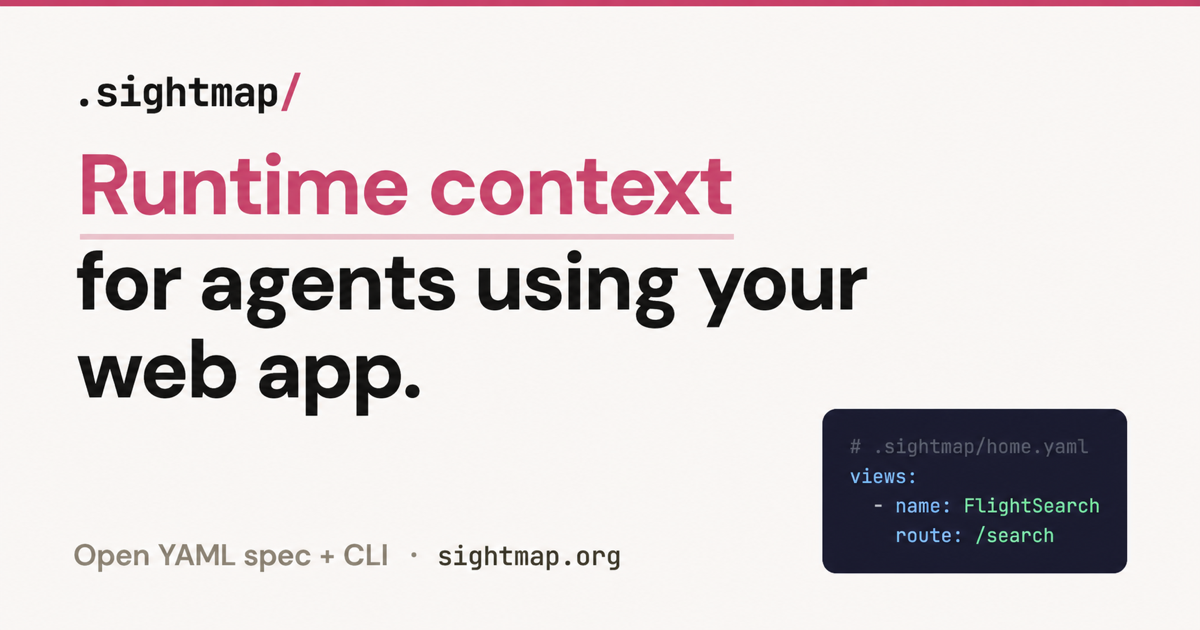
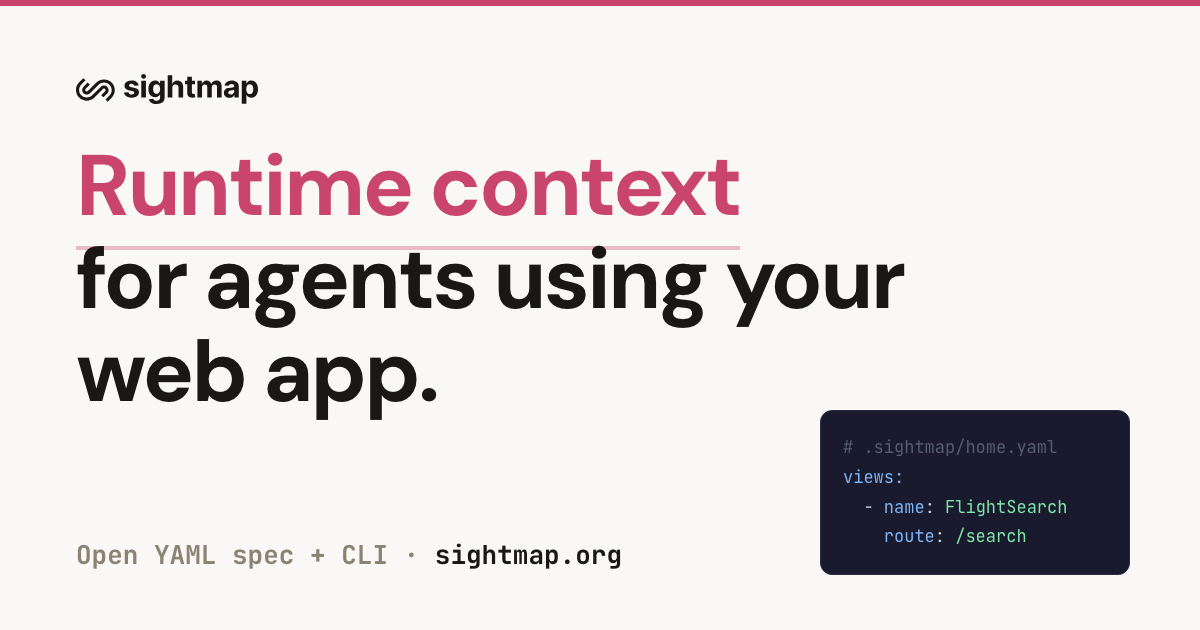
feat(web): rebuild the social card on the new lockup
The card was a committed PNG with no source behind it. It now has an HTML
source and a `pnpm og` script that rasterizes it through the system Chrome
at exactly 1200x630, so it can be regenerated instead of hand-maintained.

Only the logotype changes: the headline, footer, YAML chip, and cream
ground are reproduced as they were.

diff --git a/web/og/card.html b/web/og/card.html
@@ -1,0 +1,51 @@
+<meta charset="utf-8">
+<link rel="preconnect" href="https://fonts.gstatic.com" crossorigin>
+<link href="https://fonts.googleapis.com/css2?family=JetBrains+Mono:wght@400;500;700&family=DM+Sans:wght@700&display=swap" rel="stylesheet">
+<style>
+  html, body { margin: 0; padding: 0; }
+  body {
+    width: 1200px; height: 630px; overflow: hidden;
+    background: #faf8f6; position: relative;
+    font-family: 'DM Sans', system-ui, sans-serif;
+    -webkit-font-smoothing: antialiased;
+  }
+  .topbar {
+    position: absolute; left: 0; top: 0; width: 1200px; height: 6px;
+    background: #c9456d;
+  }
+  .logo { position: absolute; left: 76px; top: 74px; height: 30px; }
+  h1 {
+    position: absolute; left: 76px; top: 140px; margin: 0;
+    font-size: 86px; font-weight: 700; line-height: 1.08;
+    letter-spacing: -0.03em; color: #1a1714;
+  }
+  h1 .accent {
+    color: #c9456d;
+    border-bottom: 4px solid rgba(201, 69, 109, 0.35);
+    padding-bottom: 4px;
+  }
+  .footer {
+    position: absolute; left: 76px; bottom: 58px;
+    font-family: 'JetBrains Mono', monospace; font-weight: 700;
+    font-size: 26px; color: #8a8272;
+  }
+  .footer .site { color: #1a1714; }
+  .chip {
+    box-sizing: border-box;
+    position: absolute; right: 70px; bottom: 55px;
+    width: 310px; padding: 22px;
+    background: #1a1a2e; border: 1px solid #2a2a40; border-radius: 12px;
+    font-family: 'JetBrains Mono', monospace; font-size: 17px;
+    line-height: 1.75; white-space: pre;
+  }
+  .c-com { color: #555e6b; } .c-key { color: #7eb6f6; }
+  .c-str { color: #7ee8a8; } .c-text { color: #c9d1d9; }
+</style>
+<div class="topbar"></div>
+<img class="logo" src="lockup.svg" alt="sightmap">
+<h1><span class="accent">Runtime context</span><br>for agents using your<br>web app.</h1>
+<div class="footer">Open YAML spec + CLI · <span class="site">sightmap.org</span></div>
+<div class="chip"><span class="c-com"># .sightmap/home.yaml</span>
+<span class="c-key">views:</span>
+<span class="c-text">  - </span><span class="c-key">name</span><span class="c-text">: </span><span class="c-str">FlightSearch</span>
+<span class="c-text">    </span><span class="c-key">route</span><span class="c-text">: </span><span class="c-str">/search</span></div>
